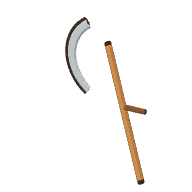
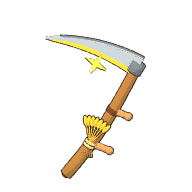
Ferme : nouvelle icône de la Faux affûtée (lame au fil d'or, gerbe de blé)

Changed region(s): [[0.2188, 0.0938, 0.7812, 0.9688]]

diff --git a/site/ferme/index.html b/site/ferme/index.html
@@ -2184,7 +2184,7 @@ const chargeur = new T.GLTFLoader();
 const draco = new T.DRACOLoader(); draco.setDecoderPath('https://cdn.jsdelivr.net/npm/three@0.128.0/examples/js/libs/draco/gltf/'); chargeur.setDRACOLoader(draco);
 const chargerGlb = (url) => new Promise((ok, ko) => chargeur.load(url, (gl) => ok(gl.scene), undefined, ko));
 const MODELES = {};
-const VERSION_MODELES = '20261015a'; /* a changer a chaque nouvel export des modeles : sinon le navigateur garde les anciens en cache */
+const VERSION_MODELES = '20261015b'; /* a changer a chaque nouvel export des modeles : sinon le navigateur garde les anciens en cache */
 /* un modele tire d'une planche : on le recentre, on le remet droit, on l'ajuste a la taille voulue (pied au sol, centre en 0) */
 /* comme gabarit, mais a une echelle donnee et centre sur un point donne (non mis a l'echelle) : les 5 niveaux d'un batiment gardent la meme echelle,
    le niveau 1 a la taille d'avant et les suivants grandissent vraiment */
